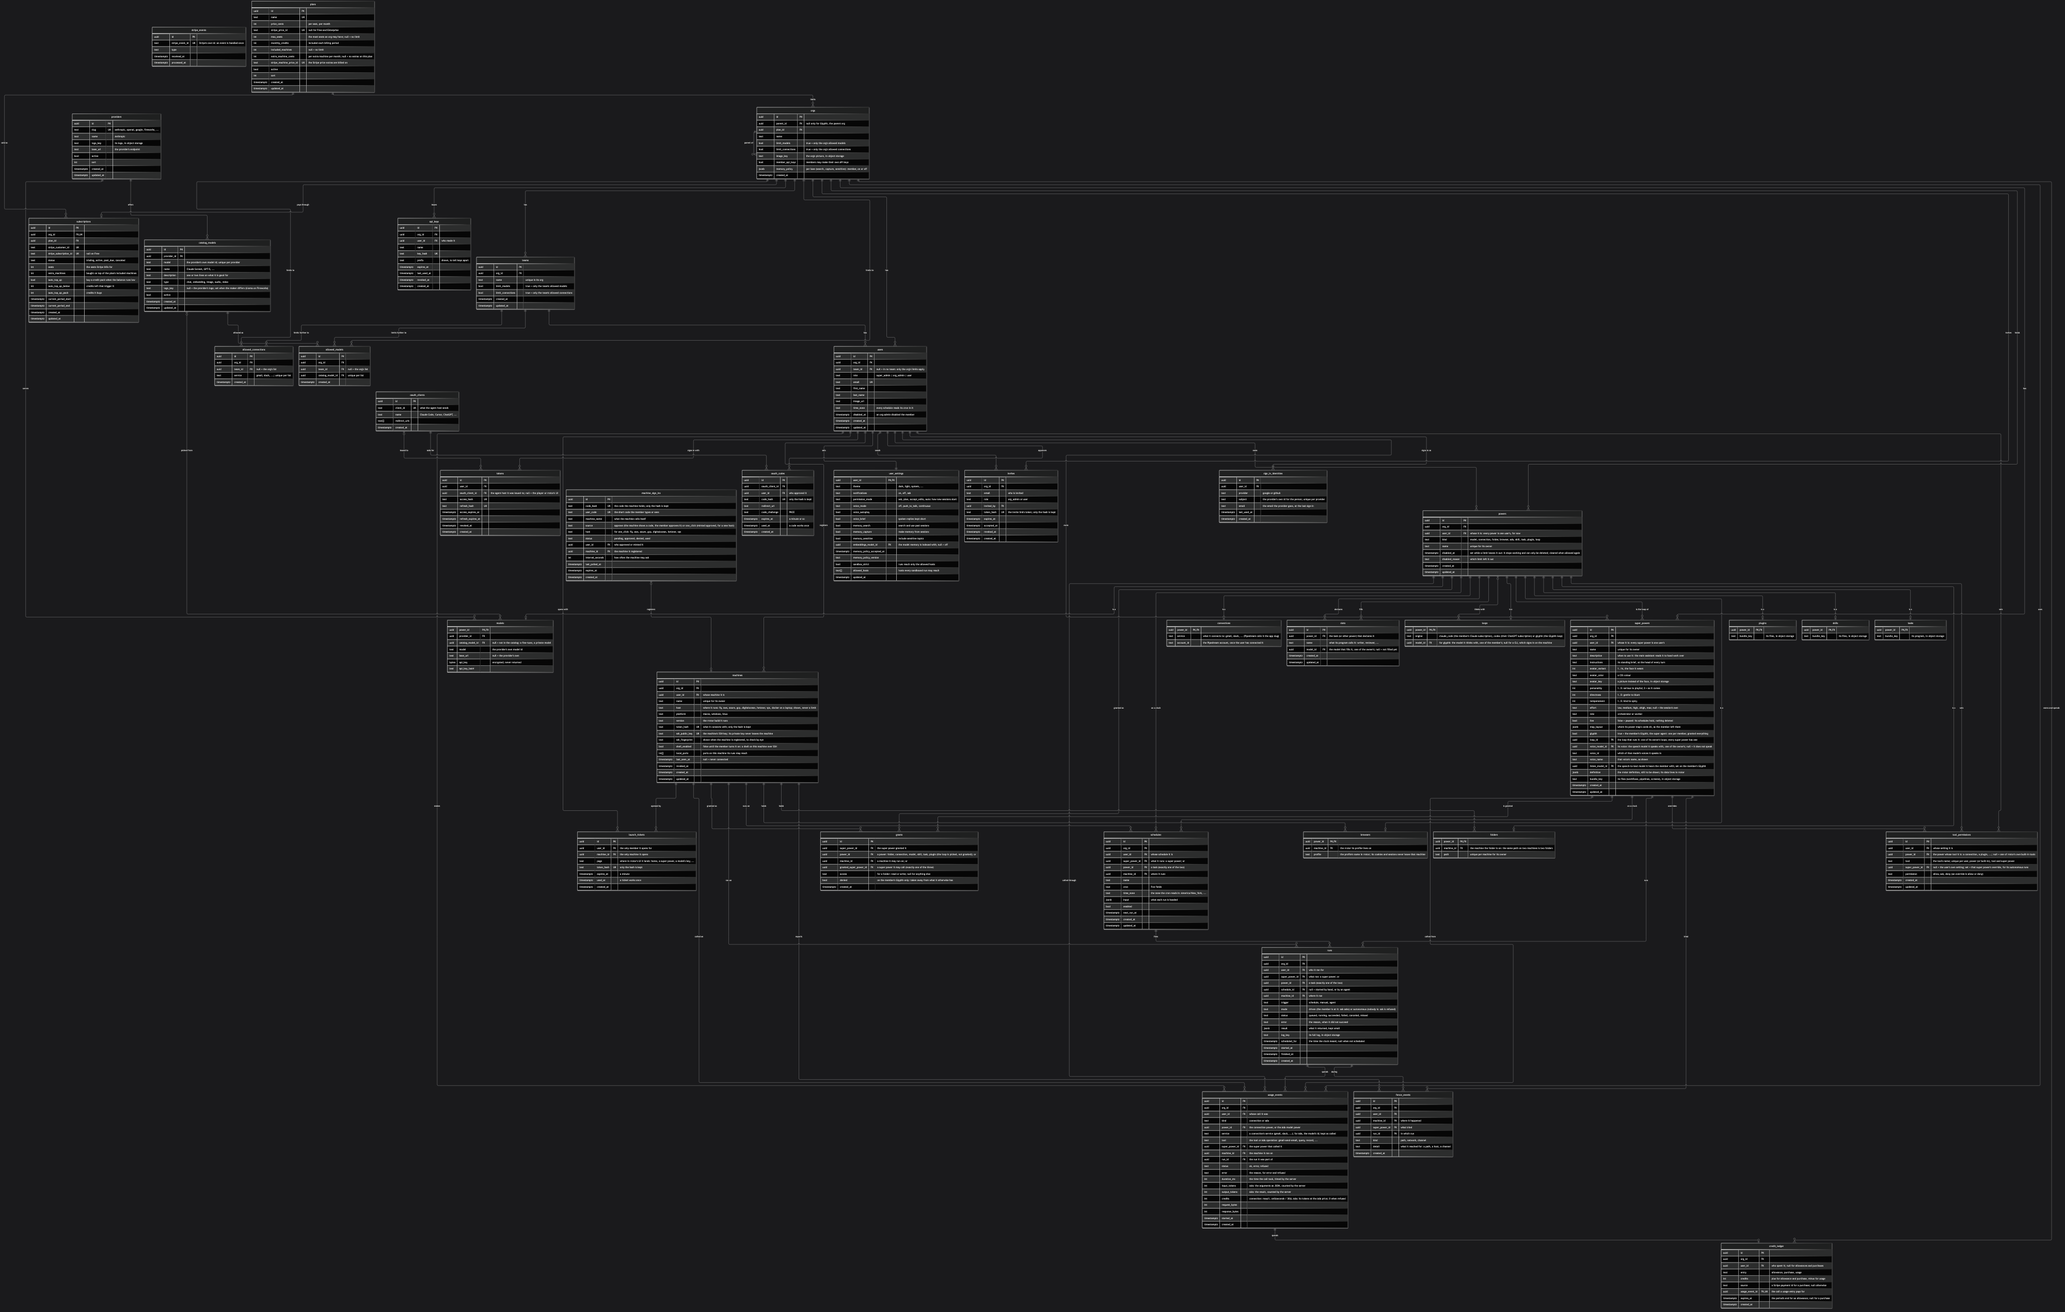
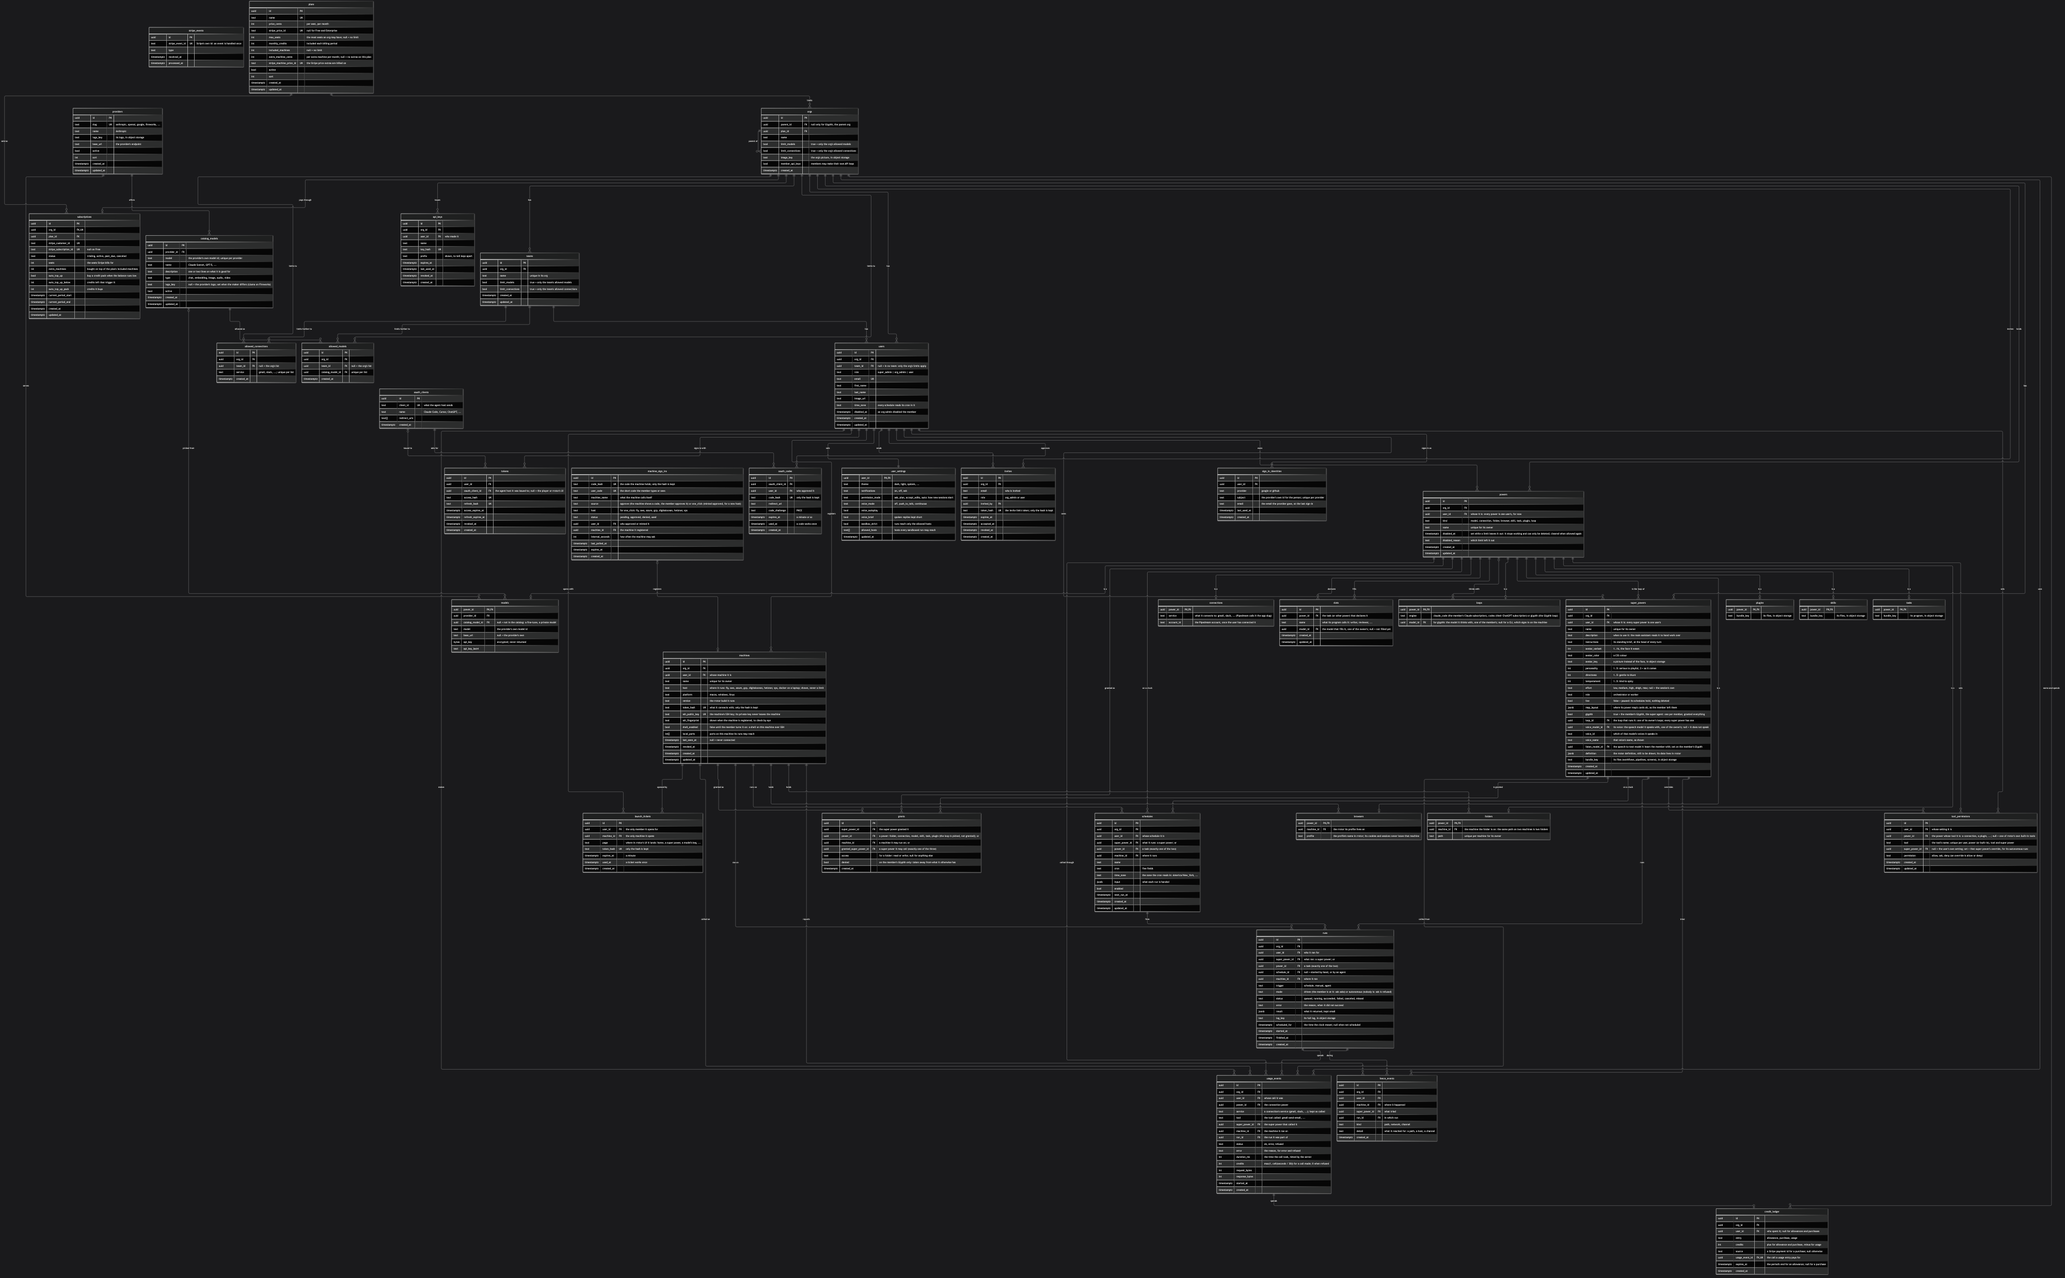
Memory and Ada out, for now: Glyphh keeps no memory of its own (a member adds it as a power), Ada comes later

diff --git a/server/docs/data-model.md b/server/docs/data-model.md
@@ -99,7 +99,6 @@ erDiagram
         bool limit_connections "true = only the org's allowed connections"
         text image_key "the org's picture, in object storage"
         bool member_api_keys "members may make their own API keys"
-        jsonb memory_policy "per lane (search, capture, sensitive): member, on or off"
         timestamptz created_at
     }
 
@@ -152,12 +151,6 @@ erDiagram
         text voice_mode "off, push_to_talk, continuous"
         bool voice_autoplay
         bool voice_brief "spoken replies kept short"
-        bool memory_search "search and use past sessions"
-        bool memory_capture "make memory from sessions"
-        bool memory_sensitive "include sensitive topics"
-        uuid embeddings_model_id FK "the model memory is indexed with; null = off"
-        timestamptz memory_policy_accepted_at
-        text memory_policy_version
         bool sandbox_strict "runs reach only the allowed hosts"
         text[] allowed_hosts "hosts every sandboxed run may reach"
         timestamptz updated_at
@@ -167,7 +160,7 @@ erDiagram
         uuid id PK
         uuid org_id FK
         uuid user_id FK "whose it is: every power is one user's, for now"
-        text kind "model, connection, folder, browser, ada, skill, task, plugin, loop"
+        text kind "model, connection, folder, browser, skill, task, plugin, loop"
         text name "unique for its owner"
         timestamptz disabled_at "set while a limit leaves it out: it stops working and can only be deleted; cleared when allowed again"
         text disabled_reason "which limit left it out"
@@ -380,19 +373,16 @@ erDiagram
         uuid id PK
         uuid org_id FK
         uuid user_id FK "whose call it was"
-        text kind "connection or ada"
-        uuid power_id FK "the connection power, or the Ada model power"
-        text service "a connection's service (gmail, slack, ...); for Ada, the model's id; kept as called"
-        text tool "the tool or Ada operation: gmail-send-email, query, record, ..."
+        uuid power_id FK "the connection power"
+        text service "a connection's service (gmail, slack, ...); kept as called"
+        text tool "the tool called: gmail-send-email, ..."
         uuid super_power_id FK "the super power that called it"
         uuid machine_id FK "the machine it ran on"
         uuid run_id FK "the run it was part of"
         text status "ok, error, refused"
         text error "the reason, for error and refused"
         int duration_ms "the time the call took, timed by the server"
-        int input_tokens "Ada: the arguments as JSON, counted by the server"
-        int output_tokens "Ada: the result, counted by the server"
-        int credits "connection: max(1, ceil(seconds / 30)); Ada: its tokens at the Ada price; 0 when refused"
+        int credits "max(1, ceil(seconds / 30)) for a call made; 0 when refused"
         int request_bytes
         int response_bytes
         timestamptz started_at
@@ -580,7 +570,7 @@ A user belongs to one org and has one role in it:
 
 The profile is the user's first name, last name, email and profile image. A Google or GitHub sign-in finds the user by the provider's own id for them (below, Signing in), never by email alone. A user is in at most one team (`team_id`).
 
-**user_settings** holds the member's own settings from the old app's Settings pages: theme, notifications, how new sessions start, voice, memory and its consent, and the sandbox's allowed hosts. What only ever applied to the desktop app's windows (workspaces, tabs, layouts, the dock, window sizes) is gone; a machine's own settings (its granted folders, its local ports, its shell) live on the machine.
+**user_settings** holds the member's own settings from the old app's Settings pages: theme, notifications, how new sessions start, voice, and the sandbox's allowed hosts. Glyphh keeps no memory of its own; memory is a power a member adds if they want it. What only ever applied to the desktop app's windows (workspaces, tabs, layouts, the dock, window sizes) is gone; a machine's own settings (its granted folders, its local ports, its shell) live on the machine.
 
 ## Teams: limiting models and connections
 
@@ -628,7 +618,6 @@ Every power is a row in `powers` (who owns it, its kind and name), and one row i
 - **A model** is a provider, the provider's model id and the API key (an optional base URL for providers that need one). rrotor calls the provider directly with that key: Glyphh never sits in the call, never sees its rates or prices, and never counts its tokens. What a model costs is between the person and their provider. A customer who wants limits or access rules puts their own AI gateway in front, through the base URL.
 - **A connection** is a user's own account at Pipedream: the service it connects to (Gmail, Slack, ...) and the account id. Pipedream calls a service an app; Glyphh says service, because an app is something else here. Glyphh stores no sign-in for it: Pipedream holds the account and its tokens, under the Glyphh user's id as Pipedream's external user id. Linking one: the server asks Pipedream for a connect token for that user, and Pipedream's own page does the sign-in. Using one: the loop reaches Pipedream's MCP server (`remote.mcp.pipedream.net/v3`) with the Pipedream project, environment, service (`x-pd-app-slug`) and the user's id as headers, and a short-lived Pipedream access token the server mints for the run (Glyphh's Pipedream client credentials never leave the server). Only Glyphh's connections are used: a super power's loop gets exactly its connections, nothing of the loop's own.
 - **A folder** is a path on one machine (`machine_id`): the same path on two machines is two folders, and a folder grant says read or write.
-- **An Ada model** is a member's own, like every power: the model's id on Glyphh's Ada service (`am_...`). Its kernel and records stay on Glyphh's servers; a super power is granted it, and a task calls it through the server, billed per token. Shared through Discover like any power.
 - **A browser** is a browser profile on one rrotor: its cookies and signed-in sessions live there and never leave that machine or reach the server. It is granted like a folder, so one super power's signed-in sites are never another's.
 - **Skills, tasks and plugins** are bundles of files in object storage (`bundle_key`); whether each save keeps a version is still open.
 - **A secret** (a key, a sign-in) is encrypted at rest, never returned after it is saved, and handed only to the member's own runtime when a super power runs.
@@ -699,7 +688,7 @@ What Pipedream charges Glyphh (Connect, Startup plan): $99 a month billed annual
 
 ## Usage
 
-Every usage event is logged in one place: the server, which every billed call passes through. Two kinds are billed: a connection call (rrotor → connector → server → Pipedream), a cost Glyphh pays, and an Ada call (rrotor → server → Ada, our own kernel), which costs Glyphh only its compute. Every one goes through the server, so the server sees each call whole: who, through which connection, from which super power, on which machine, how long, and what it cost. Nothing is reported by the runtime about itself, so a modified rrotor cannot under-report.
+Every usage event is logged in one place: the server's connection relay. A connection call is the only thing billed, a cost Glyphh pays, and every one goes through the server (rrotor → connector → server → Pipedream), so the server sees each call whole: who, through which connection, from which super power, on which machine, how long, and what it cost. Nothing is reported by the runtime about itself, so a modified rrotor cannot under-report.
 
 One call, as the relay handles it:
 
@@ -711,7 +700,6 @@ The check runs before the cost is known, so calls already in flight when the bal
 
 - **usage_events** is append only: never updated, never deleted by a request. It holds what was called and how it went, **never what went through it**: no arguments, no results, no message bodies. Those are the member's own data, and they stay between the runtime and Pipedream.
 - **Model calls are not usage.** They go straight to the provider on the member's key, and Glyphh never sees them. Jev is one of them: a TypeSafe model the member adds with their own key, never on Glyphh's key, never through the server, never charged.
-- **An Ada call is priced on its tokens:** input is its arguments as JSON, output its result, both counted by the server with one tokenizer; the cost is the larger of the tokens at the Ada price and a floor per call. The old server's prices are the start: Ada $2 per million tokens in and $10 out with a $0.0005 floor; a published Ada model a cent per million each way. How that price is stated in credits is still open.
 - **Operational logs are separate:** request logs and traces go to OpenTelemetry, tagged by org; they are not billing and do not decide a charge.
 - **Size:** the table is partitioned by month on `created_at`, indexed by org and time, and by org, user and time, so every page reads one org's range.
 

diff --git a/server/docs/status.md b/server/docs/status.md
@@ -7,6 +7,7 @@ As of 2026-10-11. The rule: the data model is drawn first, then built in the ord
 - **Server** (`glyphh-ai/server`): Python, FastAPI, SQLAlchemy over asyncpg, Postgres 17. One schema applied at boot under an advisory lock (no migrations until relaunch). `GET /v1/health` and the stateless MCP endpoint at `/mcp`. CI runs ruff and the tests in Docker on every push and publishes the image on main.
 - **Tables:** `plans` (seeded: Free, Solo, Basic, Pro, Enterprise, with their Stripe prices), `orgs` (Glyphh, the parent org, seeded), `users`, `tokens`.
 - **SDKs** (`glyphh-ai/glyphh`): TypeScript and Python, generated from the server's OpenAPI spec, with health as the first call; both suites run in Docker against the server.
+- **Not in Glyphh for now:** memory (a member adds it as a power if they want it) and Ada (later).
 - **Docs:** this site (architecture, data model, this page).
 
 The repos `glyphh-ai/app` and `glyphh-ai/platform` are no longer needed: the UI lives in rrotor, the sign-in pages in the server.
@@ -26,7 +27,7 @@ On the [data model](data-model.md), in the order they were drawn:
 - **People and machines:** `invites`, `machines` (with where they run, their SSH key, fingerprint and shell switch), `machine_sign_ins`, `fence_events` (what rrotor reports when a run reaches past its fence), `api_keys`; folders are on a machine, and folder grants are read or write.
 - **Signing in and Stripe:** `sign_in_identities` (Google and GitHub by the provider's own id), `oauth_clients` and `oauth_codes` (the plugin's sign-in), `launch_tickets` (open one machine's UI, once, for a minute), `stripe_events` (each webhook handled once).
 
-On the [architecture](architecture.md): voice (speech in and out on the member's own models, streamed between the browser and rrotor), the main assistant, Glyphh, in rrotor on one of three loops (Claude Code or Codex on the member's subscription, or the Glyphh loop on their own key; none priced by Glyphh), orchestrating through rrotor's MCP, no desktop app and no platform (every rrotor serves Glyphh's UI, opened in Claude or any browser through the player; sign-in once on the server; four sign-in pages), tasks with Jev (a model on the member's key) and Ada (our kernel, billed per token), dependencies and Discover, one full rrotor everywhere (a laptop is just another Docker host), Redis for live state (which process holds each machine, heartbeats, messages between processes), rrotor as a Linux VM (everything Glyphh runs is inside it, reached only by grants), usage and billing pages in rrotor's UI, adding a model in rrotor's UI, what rrotor carries (Postgres with pgvector, a Next.js server, the loop), and machine to machine over SSH through the relay.
+On the [architecture](architecture.md): voice (speech in and out on the member's own models, streamed between the browser and rrotor), the main assistant, Glyphh, in rrotor on one of three loops (Claude Code or Codex on the member's subscription, or the Glyphh loop on their own key; none priced by Glyphh), orchestrating through rrotor's MCP, no desktop app and no platform (every rrotor serves Glyphh's UI, opened in Claude or any browser through the player; sign-in once on the server; four sign-in pages), tasks with Jev (a model on the member's key), dependencies and Discover, one full rrotor everywhere (a laptop is just another Docker host), Redis for live state (which process holds each machine, heartbeats, messages between processes), rrotor as a Linux VM (everything Glyphh runs is inside it, reached only by grants), usage and billing pages in rrotor's UI, adding a model in rrotor's UI, what rrotor carries (Postgres with pgvector, a Next.js server, the loop), and machine to machine over SSH through the relay.
 
 ## Open
 
@@ -34,8 +35,6 @@ Decisions still to make. Where a proposal is written, it is a proposal, not a de
 
 - **Conversations:** not drawn. Proposal: the server keeps each conversation's record (title, super power, machine, run, status, times), rrotor keeps the messages, and rrotor's UI opens them through the player through the relay.
 - **Codex hosting terms:** confirm OpenAI's terms for hosting Codex signed in with a member's ChatGPT subscription; Glyphh accepts Anthropic's Commercial Terms for Claude Code.
-- **Memory:** the member's memory settings are drawn; where memory itself lives (rrotor, most likely) is not.
-- **Ada in credits:** how the Ada price per token is stated in credits.
 - **Super powers in Discover:** whether a super power becomes one more power type (`super_powers` folds into `powers`) or keeps its own table and is listed the same way.
 - **Requirements and listings:** the tables for power dependencies and the Discover catalog, drawn when built.
 - **The rrotor definition:** what a super power's definition holds (its workflows, pipelines and screens), how one super power's data is kept apart from another's in rrotor's Postgres, and how its screens are laid out inside Glyphh's UI.

diff --git a/server/docs/architecture.md b/server/docs/architecture.md
@@ -15,12 +15,10 @@ flowchart TB
         Live[("Redis")]
         Relay["Relay (the gate)"]
         ConnRelay["Connection relay"]
-        Ada["Ada"]
         Server --- DB
         Server --- Live
         Server --- Relay
         Server --- ConnRelay
-        Server --- Ada
         Server --- Pages
         Player --- Relay
     end
@@ -51,7 +49,6 @@ flowchart TB
     RB -- "direct" --> Providers
     RA -- "connections" --> ConnRelay
     RB -- "connections" --> ConnRelay
-    RA -- "Ada" --> Ada
     ConnRelay --> Pipedream
     Hosts -- "runs" --> RA
     Hosts -- "runs" --> RB
@@ -86,7 +83,6 @@ A single-deployment, multi-tenant cloud SaaS, headless first: every capability i
 
 - **rrotor → CLI or model → provider:** the thinking goes straight to the provider, on the member's own subscription (Claude Code, Codex) or key (the Glyphh loop). Glyphh never sees it and never prices it.
 - **rrotor → connector → server:** every connection call goes through the server, which relays it to Pipedream and counts it, because each one is a cost Glyphh pays.
-- **rrotor → Ada → server:** every Ada call goes to Glyphh's own Ada kernel, which never leaves Glyphh's servers, and is billed per token.
 - **Jev is a model, on the first path:** the member adds TypeSafe's Jev with their own key, and rrotor calls TypeSafe directly. It is never on Glyphh's key, never through the server, and never charged.
 
 ### Models
@@ -135,15 +131,19 @@ Glyphh has the super power editor: the skills and tools to create a super power,
 A task is a program rrotor runs, by hand, from a super power or on a clock, and it reaches the world only through its context:
 
 - `ctx.decide`: Jev, a model the member added with their own key, called directly;
-- `ctx.ada`: one of the member's Ada models (query, record, veto, ...), through the server, billed per token;
 - `ctx.agents.<slot>`: the model filling each of its slots;
 - `ctx.connections.<service>`: its connections, through the server, counted;
 - `ctx.rpa`: the browser, on a machine that has one;
 - `ctx.checkpoint` and `ctx.log`: resume where it stopped, and its run's log.
 
-**Dependencies.** A power declares what it needs: a task that needs Gmail and Slack, a chat model for its writing step, Jev and an Ada model says so. Adding it to a super power grants all of it at once; whatever the member does not have yet is asked for right there (connect Gmail, add a key, pick an Ada model), and it cannot run until everything is in place, naming what is missing. Jev and Ada are dependencies like any model.
+**Dependencies.** A power declares what it needs: a task that needs Gmail and Slack, a chat model for its writing step and Jev says so. Adding it to a super power grants all of it at once; whatever the member does not have yet is asked for right there (connect Gmail, add a key), and it cannot run until everything is in place, naming what is missing. Jev is a dependency like any model.
 
-**Discover.** Glyphh and orgs publish powers (skills, tasks, Ada models, ...) and super powers to a catalog, each a bundle with its type and its dependencies; an org's listings are visible to its own members. Installing one copies it into the member's own powers, linked to the listing and its version so updates can be offered, and brings its dependencies with it as above. The tables for requirements and listings are drawn when this is built.
+**Discover.** Glyphh and orgs publish powers (skills, tasks, ...) and super powers to a catalog, each a bundle with its type and its dependencies; an org's listings are visible to its own members. Installing one copies it into the member's own powers, linked to the listing and its version so updates can be offered, and brings its dependencies with it as above. The tables for requirements and listings are drawn when this is built.
+
+### Not in Glyphh, for now
+
+- **Memory:** Glyphh has none of its own. A member who wants memory adds it as a power or a super power of their own.
+- **Ada** comes later; the basics first.
 
 ### What a super power can be
 
